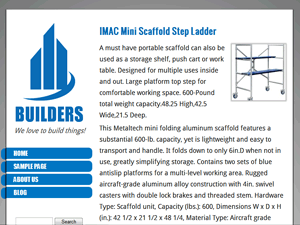
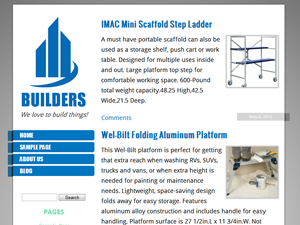
Some changes to match the requirements of the Wordpress template repository

diff --git a/style.css b/style.css
@@ -1,7 +1,7 @@
 /*   
 Theme Name: Builders
 Theme URI: http://colorwp.com/theme/builders/
-Description: Stylish, blue, corporate theme. Widget ready. Includes a Twitter Widget.
+Description: Stylish, blue, corporate theme. Widget ready. Twitter widget integrated.
 Author: ColorWP.com
 Author URI: http://colorwp.com
 Version: 1.0
@@ -84,7 +84,7 @@ body{
 	width:800px;
 	margin:30px auto 0px auto;
 	background: white;
-	box-shadow: 0px 2px 2px 2px #333;
+	box-shadow: 0px 0px 2px 1px #333;
 }
 #header{
 	padding: 5%;
@@ -134,6 +134,18 @@ body{
 .post-content p{
     line-height:1.7em;
 }
+.post_nav_links{
+    padding-top:20px;
+}
+.post_nav_links a{
+    color: #076AB4;
+}
+#previous_posts_link{
+    float:left;
+}
+#next_posts_link{
+    float:right;
+}
 #nav{
 	list-style:none;
 }
@@ -142,19 +154,17 @@ body{
 	height:30px;
 	margin:0 0 5px 0;
 	background: #0076c0;
-	border-top-right-radius:10px;
-	border-bottom-right-radius:10px;
+	border-top-right-radius:5px;
+	border-bottom-right-radius:5px;
 	position:relative;
 }
 #nav li span, .menu li span{
 	position:absolute;
 	width:15px;
 	height:30px;
-	background: #0076c0;
+	background: #246690;
 	left:-15px;
 	top:2px;
-	border-top-left-radius:10px;
-	border-bottom-left-radius:10px;
 	background-image:url(images/menu-shadow.png);
 	background-position:right;
 	background-repeat:repeat-y;
@@ -221,28 +231,25 @@ body{
 }
 .post-meta{
 	position:absolute;
-/*	top:110%;*/
 	bottom:0;
 	right:-20px;
 	width:25%;
 	text-align:center;
 	opacity:0.5;
-	background: #0076c0;
+	background: #aaa;
 	color:white;
 	font-size:70%;
 	padding:5px;
-	border-top-left-radius: 5px;
-	border-bottom-left-radius: 5px;
+	border-top-left-radius: 2px;
+	border-bottom-left-radius: 2px;
 }
 .post-meta span{
 	position:absolute;
 	width:15px;
-	height:20px;
-	background: #0076c0;
+	height:100%;
+	background: #555;
 	right:-15px;
 	top:1px;
-	border-top-right-radius:5px;
-	border-bottom-right-radius:5px;
 	background-image:url(images/postmeta-shadow.png);
 	background-position:left;
 	background-repeat:repeat-y;
@@ -283,7 +290,7 @@ h2#comments{
         background: linear-gradient(left,  #444444 0%,#666666 51%,#444444 100%); /* W3C */
         filter: progid:DXImageTransform.Microsoft.gradient( startColorstr='#444444', endColorstr='#444444',GradientType=1 ); /* IE6-9 */
         color:white;
-	border-top:1px solid #999;
+	border-top:1px solid #555;
 }
 #bottom-widgets .widget{
 	float:left;
@@ -340,4 +347,24 @@ h2#comments{
 }
 #searchform #searchsubmit{
     width:40%;
+}
+/* Required by Wordpress theme repository */
+.wp-caption{}
+.wp-caption-text {}
+.sticky {}
+.gallery-caption {}
+.bypostauthor {
+    background:#eee;
+    padding:2%;
+    width:96%;
+}
+.alignright {
+    float:left;
+}
+.alignleft{
+    float:right;
+}
+.aligncenter{
+    float:none;
+    text-align:center;
 }

diff --git a/twitterwidget.php b/twitterwidget.php
@@ -13,8 +13,8 @@ class ColorWP_Twitter_Widget extends WP_Widget
     $num = $instance['num'];
     $followbutton = $instance['followbutton'];
     ?>
-    <p><label for="<?php echo $this->get_field_id('title'); ?>">Title: <input class="widefat" id="<?php echo $this->get_field_id('title'); ?>" name="<?php echo $this->get_field_name('title'); ?>" type="text" value="<?php echo attribute_escape($title); ?>" /></label></p>
-    <p><label for="<?php echo $this->get_field_id('user'); ?>">Twitter Username: <input class="widefat" id="<?php echo $this->get_field_id('user'); ?>" name="<?php echo $this->get_field_name('user'); ?>" type="text" value="<?php echo attribute_escape($username); ?>" /></label></p>
+    <p><label for="<?php echo $this->get_field_id('title'); ?>">Title: <input class="widefat" id="<?php echo $this->get_field_id('title'); ?>" name="<?php echo $this->get_field_name('title'); ?>" type="text" value="<?php echo esc_attr($title); ?>" /></label></p>
+    <p><label for="<?php echo $this->get_field_id('user'); ?>">Twitter Username: <input class="widefat" id="<?php echo $this->get_field_id('user'); ?>" name="<?php echo $this->get_field_name('user'); ?>" type="text" value="<?php echo esc_attr($username); ?>" /></label></p>
     <p><label for="<?php echo $this->get_field_id('num'); ?>">Number of tweets to display:
             <select name="<?php echo $this->get_field_name('num'); ?>" class="widefat">
                 <option value="1" name="1">1</option>
@@ -123,33 +123,9 @@ class lastRSS {
     // Parse RSS file and returns associative array. 
     // ------------------------------------------------------------------- 
     function Get ($rss_url) { 
-        // If CACHE ENABLED 
-        if ($this->cache_dir != '') { 
-            $cache_file = $this->cache_dir . '/rsscache_' . md5($rss_url); 
-            $timedif = @(time() - filemtime($cache_file)); 
-            if ($timedif < $this->cache_time) { 
-                // cached file is fresh enough, return cached array 
-                $result = unserialize(join('', file($cache_file))); 
-                // set 'cached' to 1 only if cached file is correct 
-                if ($result) $result['cached'] = 1; 
-            } else { 
-                // cached file is too old, create new 
-                $result = $this->Parse($rss_url); 
-                $serialized = serialize($result); 
-                if ($f = @fopen($cache_file, 'w')) { 
-                    fwrite ($f, $serialized, strlen($serialized)); 
-                    fclose($f); 
-                } 
-                if ($result) $result['cached'] = 0; 
-            } 
-        } 
-        // If CACHE DISABLED >> load and parse the file directly 
-        else { 
             $result = $this->Parse($rss_url); 
             if ($result) $result['cached'] = 0; 
-        } 
-        // return result 
-        return $result; 
+            return $result; 
     } 
      
     // ------------------------------------------------------------------- 

diff --git a/single.php b/single.php
@@ -20,6 +20,8 @@
                                     
                                     <?php the_content() ?>
                                     
+                                    <p><?php wp_link_pages(); ?></p>
+                                    
                                     <a href="<?php the_permalink() ?>"><div class="post-comments">Comments</div></a>
                                     <div class="post-meta"><?php the_date() ?><span><!--Sticker like outside effect--></span></div>
 				</div><!--/post-content-->
@@ -37,41 +39,3 @@
                 <?php include('footerwidgets.php') ?>
                 
                 <?php get_footer(); ?>
-                
-                <!--
-                CHANGES END HERE
-
-
-	<?php if (have_posts()) : while (have_posts()) : the_post(); ?>
-
-		<div <?php post_class() ?> id="post-<?php the_ID(); ?>">
-
-			<h2><a href="<?php the_permalink() ?>"><?php the_title(); ?></a></h2>
-
-			<?php include (TEMPLATEPATH . '/inc/meta.php' ); ?>
-
-			<div class="entry">
-				<?php the_content(); ?>
-			</div>
-
-			<div class="postmetadata">
-				<?php the_tags('Tags: ', ', ', '<br />'); ?>
-				Posted in <?php the_category(', ') ?> | 
-				<?php comments_popup_link('No Comments &#187;', '1 Comment &#187;', '% Comments &#187;'); ?>
-			</div>
-
-		</div>
-
-	<?php endwhile; ?>
-
-	<?php include (TEMPLATEPATH . '/inc/nav.php' ); ?>
-
-	<?php else : ?>
-
-		<h2>Not Found</h2>
-
-	<?php endif; ?>
-
-
-
-<?php get_footer(); ?>-->

diff --git a/functions.php b/functions.php
@@ -1,15 +1,17 @@
 <?php
 	
 	// Add RSS links to <head> section
-	automatic_feed_links();
-        
+	add_theme_support( 'automatic-feed-links' );
         add_theme_support( 'post-thumbnails' );
 	
 	// Load jQuery
 	if ( !is_admin() ) {
-	   wp_deregister_script('jquery');
-	   wp_register_script('jquery', ("http://ajax.googleapis.com/ajax/libs/jquery/1.4/jquery.min.js"), false);
-	   wp_enqueue_script('jquery');
+           function register_jquery(){
+                wp_deregister_script('jquery');
+                wp_register_script('jquery', ("http://ajax.googleapis.com/ajax/libs/jquery/1.4/jquery.min.js"), false);
+                wp_enqueue_script('jquery');
+           }
+           add_action('wp_enqueue_scripts', 'register_jquery');
 	}
 	
 	// Clean up the <head>
@@ -55,7 +57,5 @@
     }   
     
     register_nav_menu( 'primary', 'Primary Menu' );
-    
-    include('twitterwidget.php');
 
 ?>

diff --git a/comments.php b/comments.php
@@ -18,6 +18,8 @@
 	<ol class="commentlist">
 		<?php wp_list_comments(); ?>
 	</ol>
+        
+        <p><?php paginate_comments_links() ?></p>
 
  <?php else : // this is displayed if there are no comments so far ?>
 
@@ -81,7 +83,14 @@
 			<?php comment_id_fields(); ?>
 		</div>
 		
-		<?php do_action('comment_form', $post->ID); ?>
+		<?php
+                // Required by Wordpress template repository,
+                // but we already have a form layout ready above
+                ob_start();
+                comment_form();
+                ob_get_contents();
+                ob_end_clean();
+                ////do_action('comment_form', $post->ID); ?>
 
 	</form>
 

diff --git a/index.php b/index.php
@@ -33,6 +33,14 @@
                             <?php endwhile; ?>
                             <?php endif; ?>
 				
+                                <div class="post-content post_nav_links">
+                                    <span id="previous_posts_link">
+                                        <?php previous_posts_link(); ?>
+                                    </span>
+                                    <span id="next_posts_link">
+                                        <?php next_posts_link(); ?>
+                                    </span>
+                                </div>
 			</div>
 		</div><!--/body-->
 		

diff --git a/page.php b/page.php
@@ -20,6 +20,8 @@
                                     
                                     <?php the_content() ?>
                                     
+                                    <p><?php wp_link_pages(); ?></p>
+                                    
                                     <a href="<?php the_permalink() ?>"><div class="post-comments">Comments</div></a>
                                     <div class="post-meta"><?php the_date() ?><span><!--Sticker like outside effect--></span></div>
 				</div><!--/post-content-->

diff --git a/header.php b/header.php
@@ -41,5 +41,5 @@
 </head>
 
 <body <?php body_class(); ?>>
-
+    <?php if ( ! isset( $content_width ) ) $content_width = 800; ?>
     	<div id="main-wrapper">
